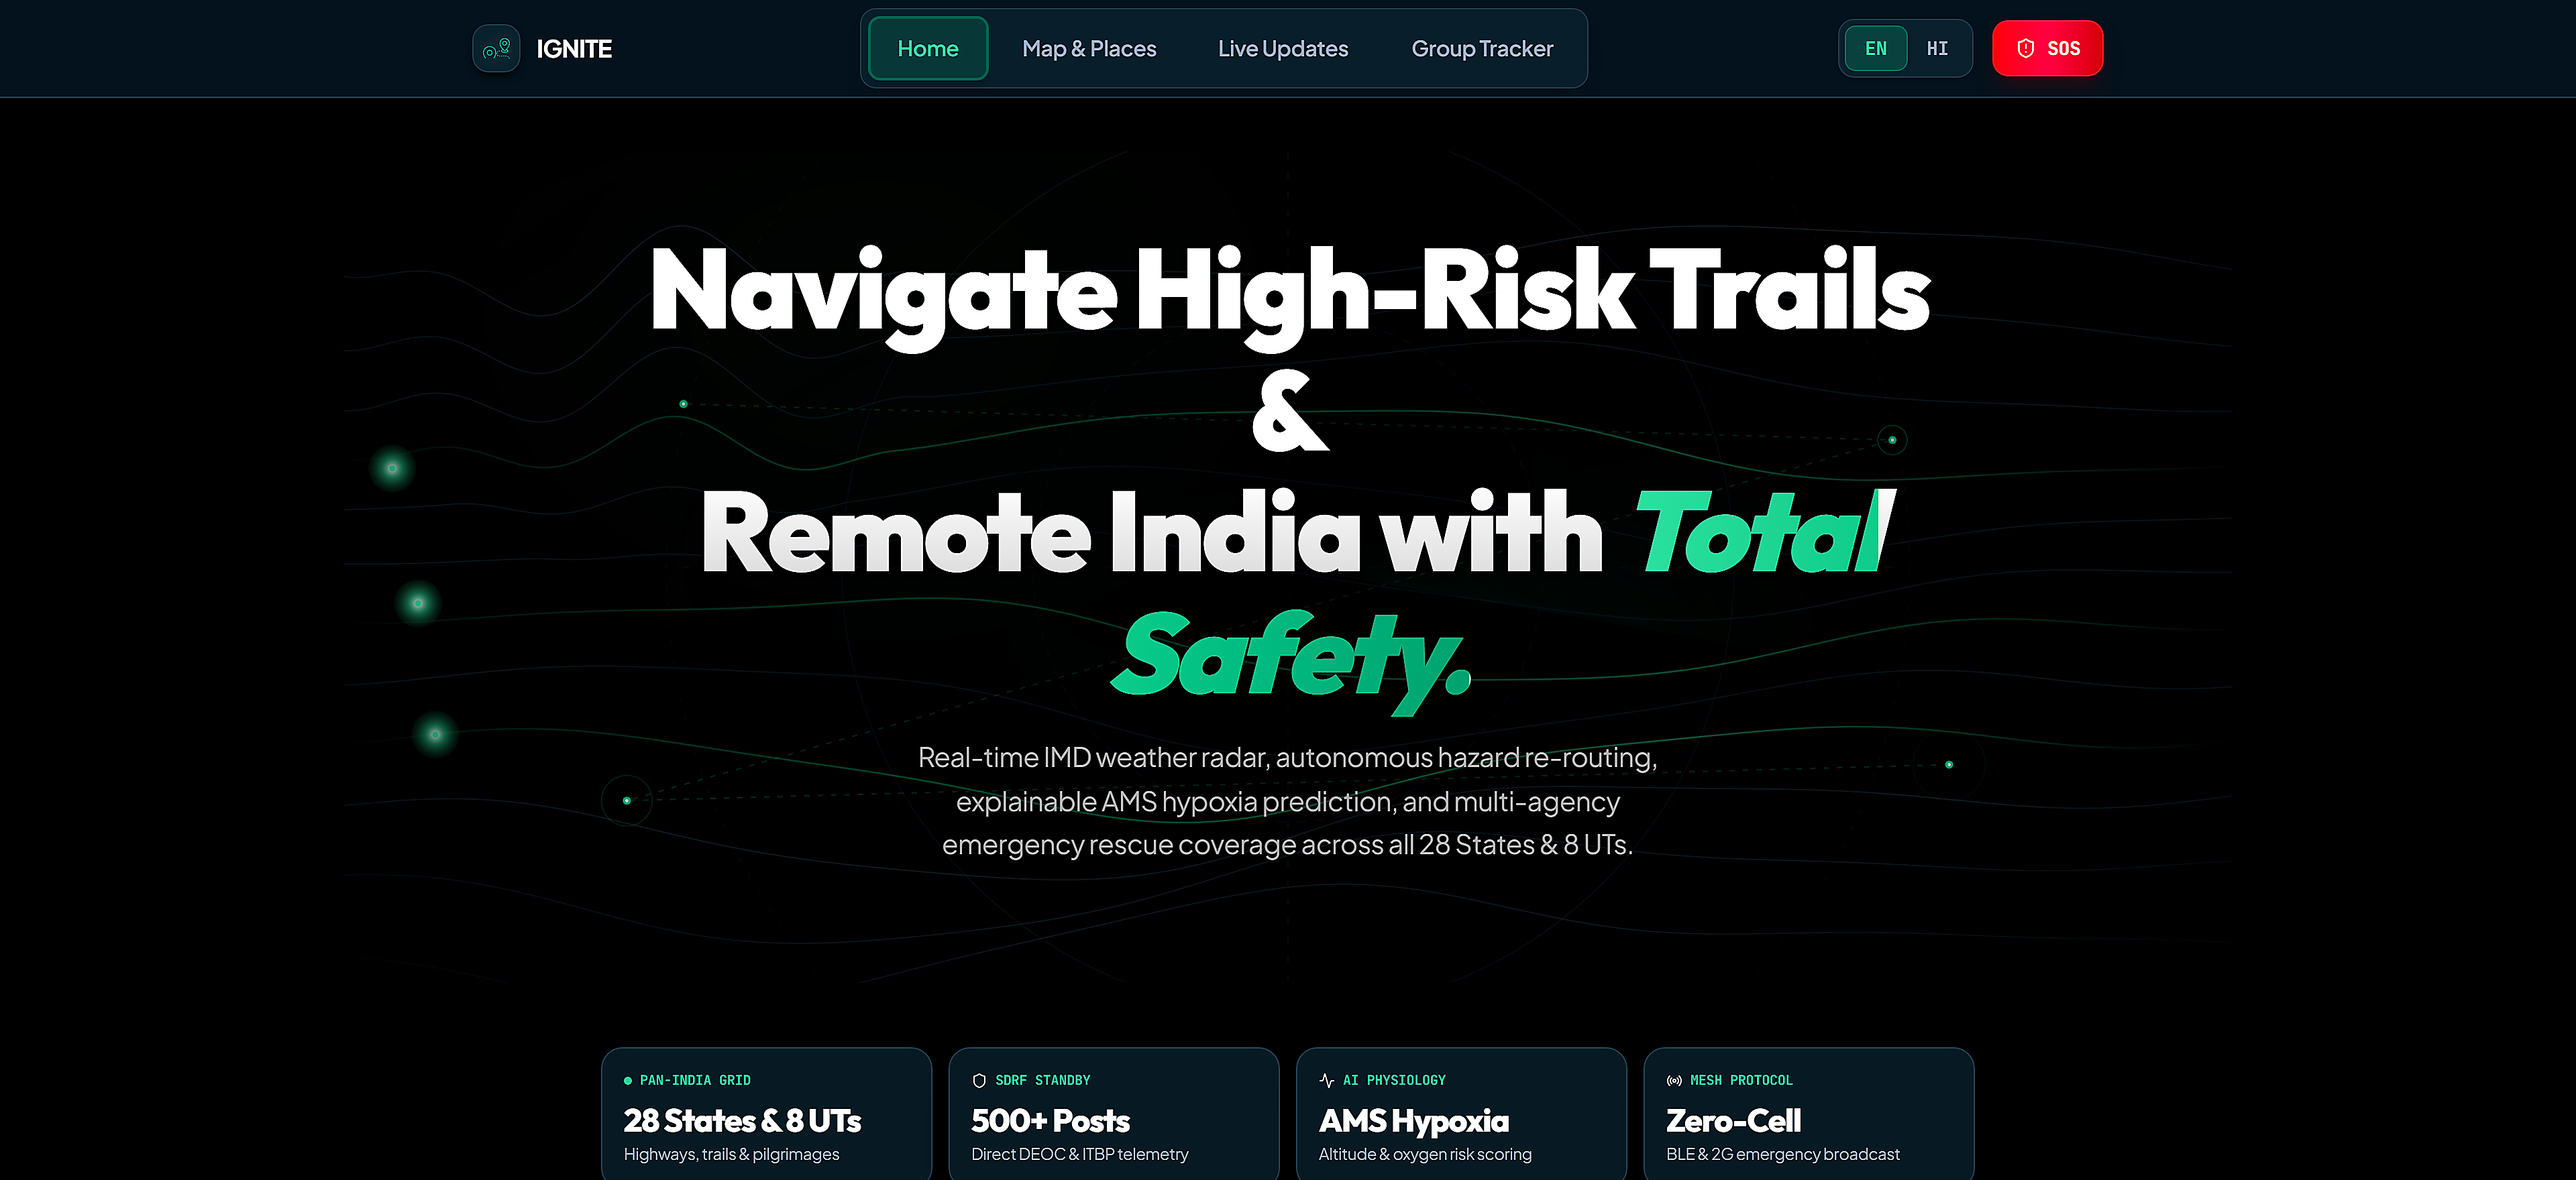
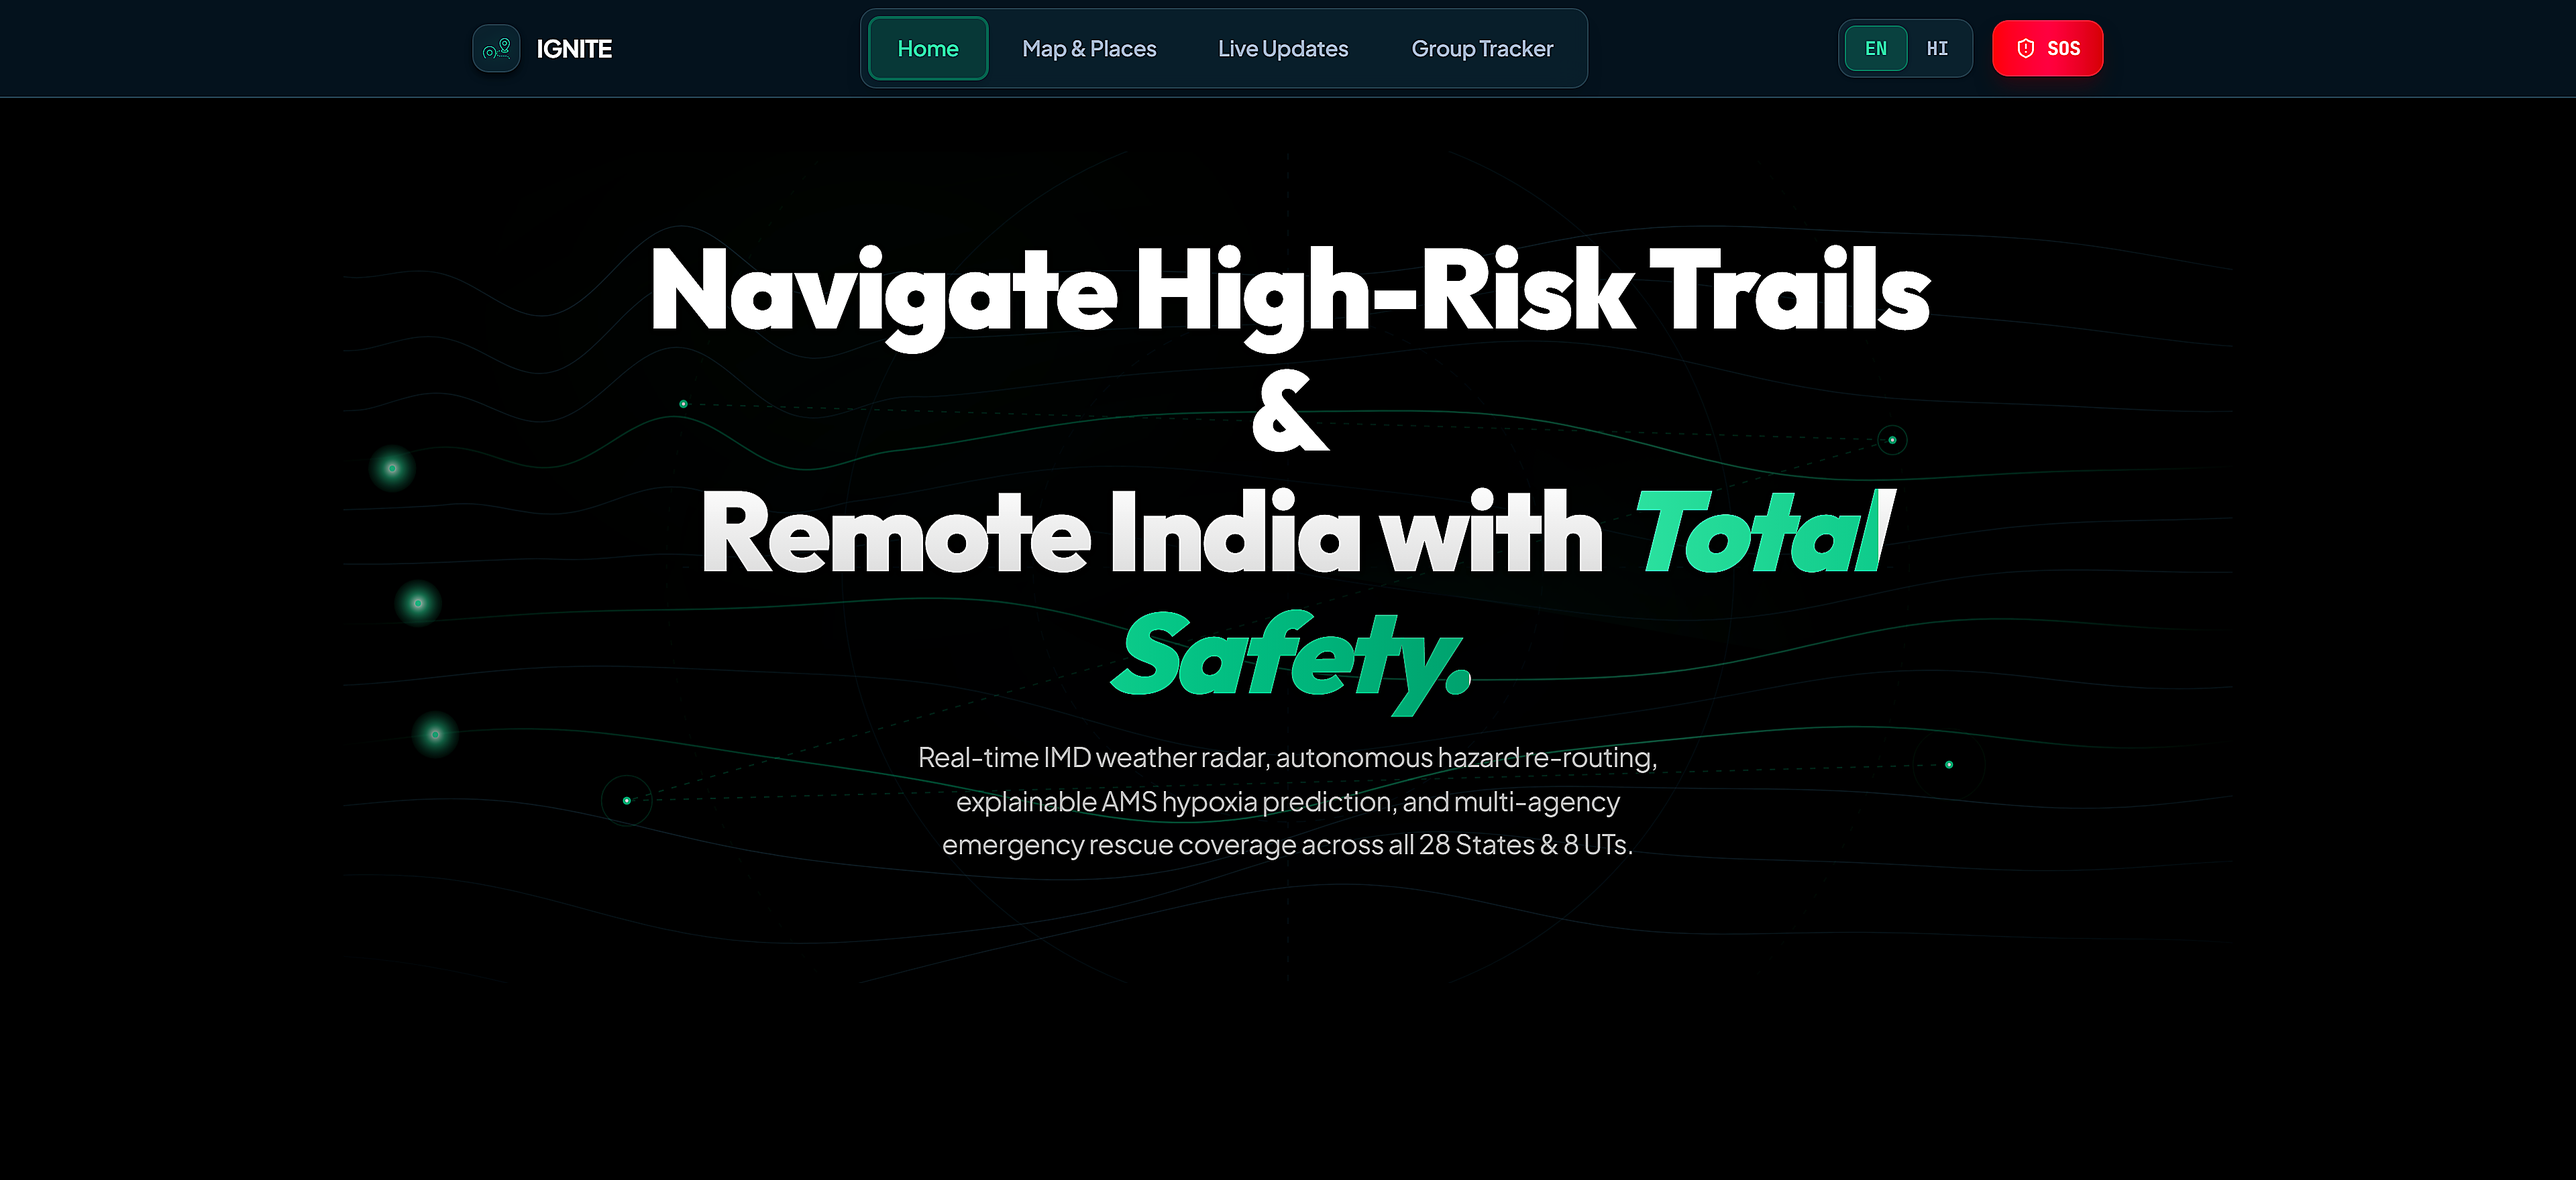
fix(showcase): hide background metric text behind tech stack section

Changed region(s): [[0.2188, 0.875, 0.7812, 1.0]]

diff --git a/src/app/page.tsx b/src/app/page.tsx
@@ -554,7 +554,7 @@ export default function Home() {
                     <ProjectTechStack items={IGNITE_TECH_STACKS} theme="dark" />
                   </div>
                   <div className="card__image" style={{ pointerEvents: "none", backgroundColor: "#04121d", overflow: "hidden" }}>
-                    <img className="card__media" src="/img/works/showcase-stack/ignite.png?v=3" alt="Project Preview Image" style={{ imageRendering: "-webkit-optimize-contrast", top: "-2px", height: "calc(100% + 4px)", position: "relative", objectFit: "cover" }} />
+                    <img className="card__media" src="/img/works/showcase-stack/ignite.png?v=4" alt="Project Preview Image" style={{ imageRendering: "-webkit-optimize-contrast", top: "-2px", height: "calc(100% + 4px)", position: "relative", objectFit: "cover" }} />
                     <div className="card__cover" style={{ backgroundColor: "transparent", pointerEvents: "none" }}></div>
                   </div>
                 </div>
